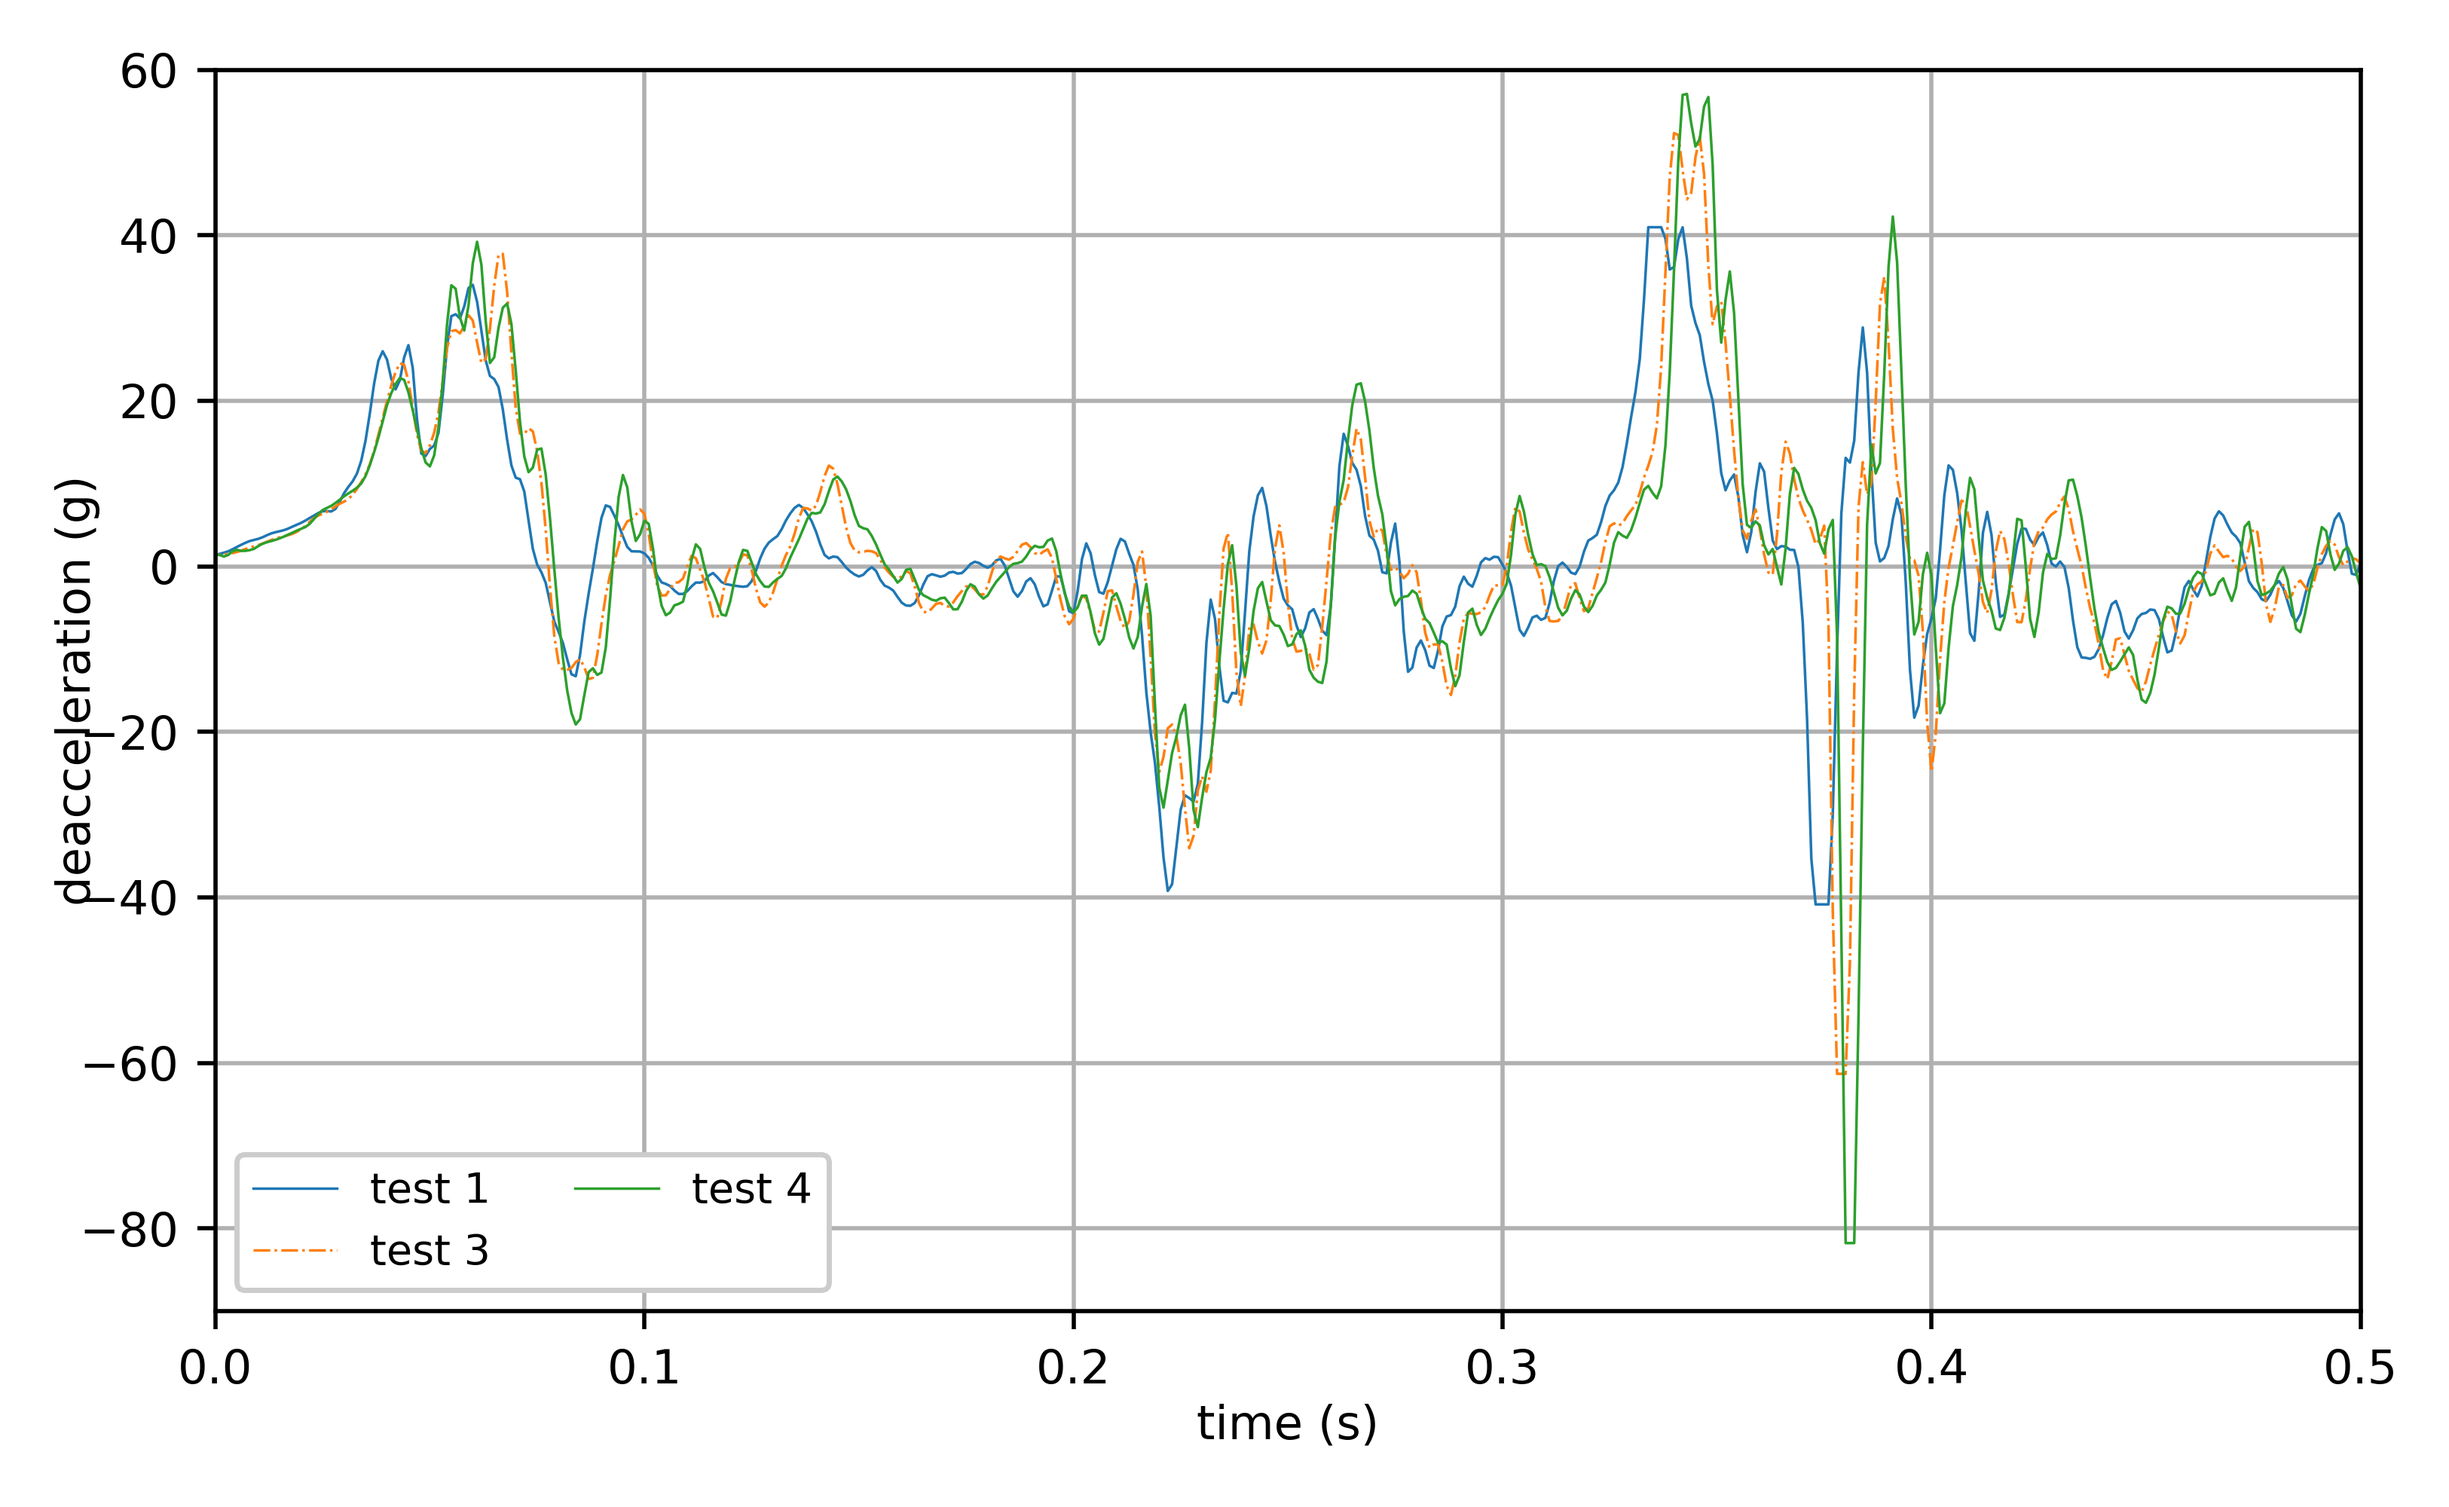
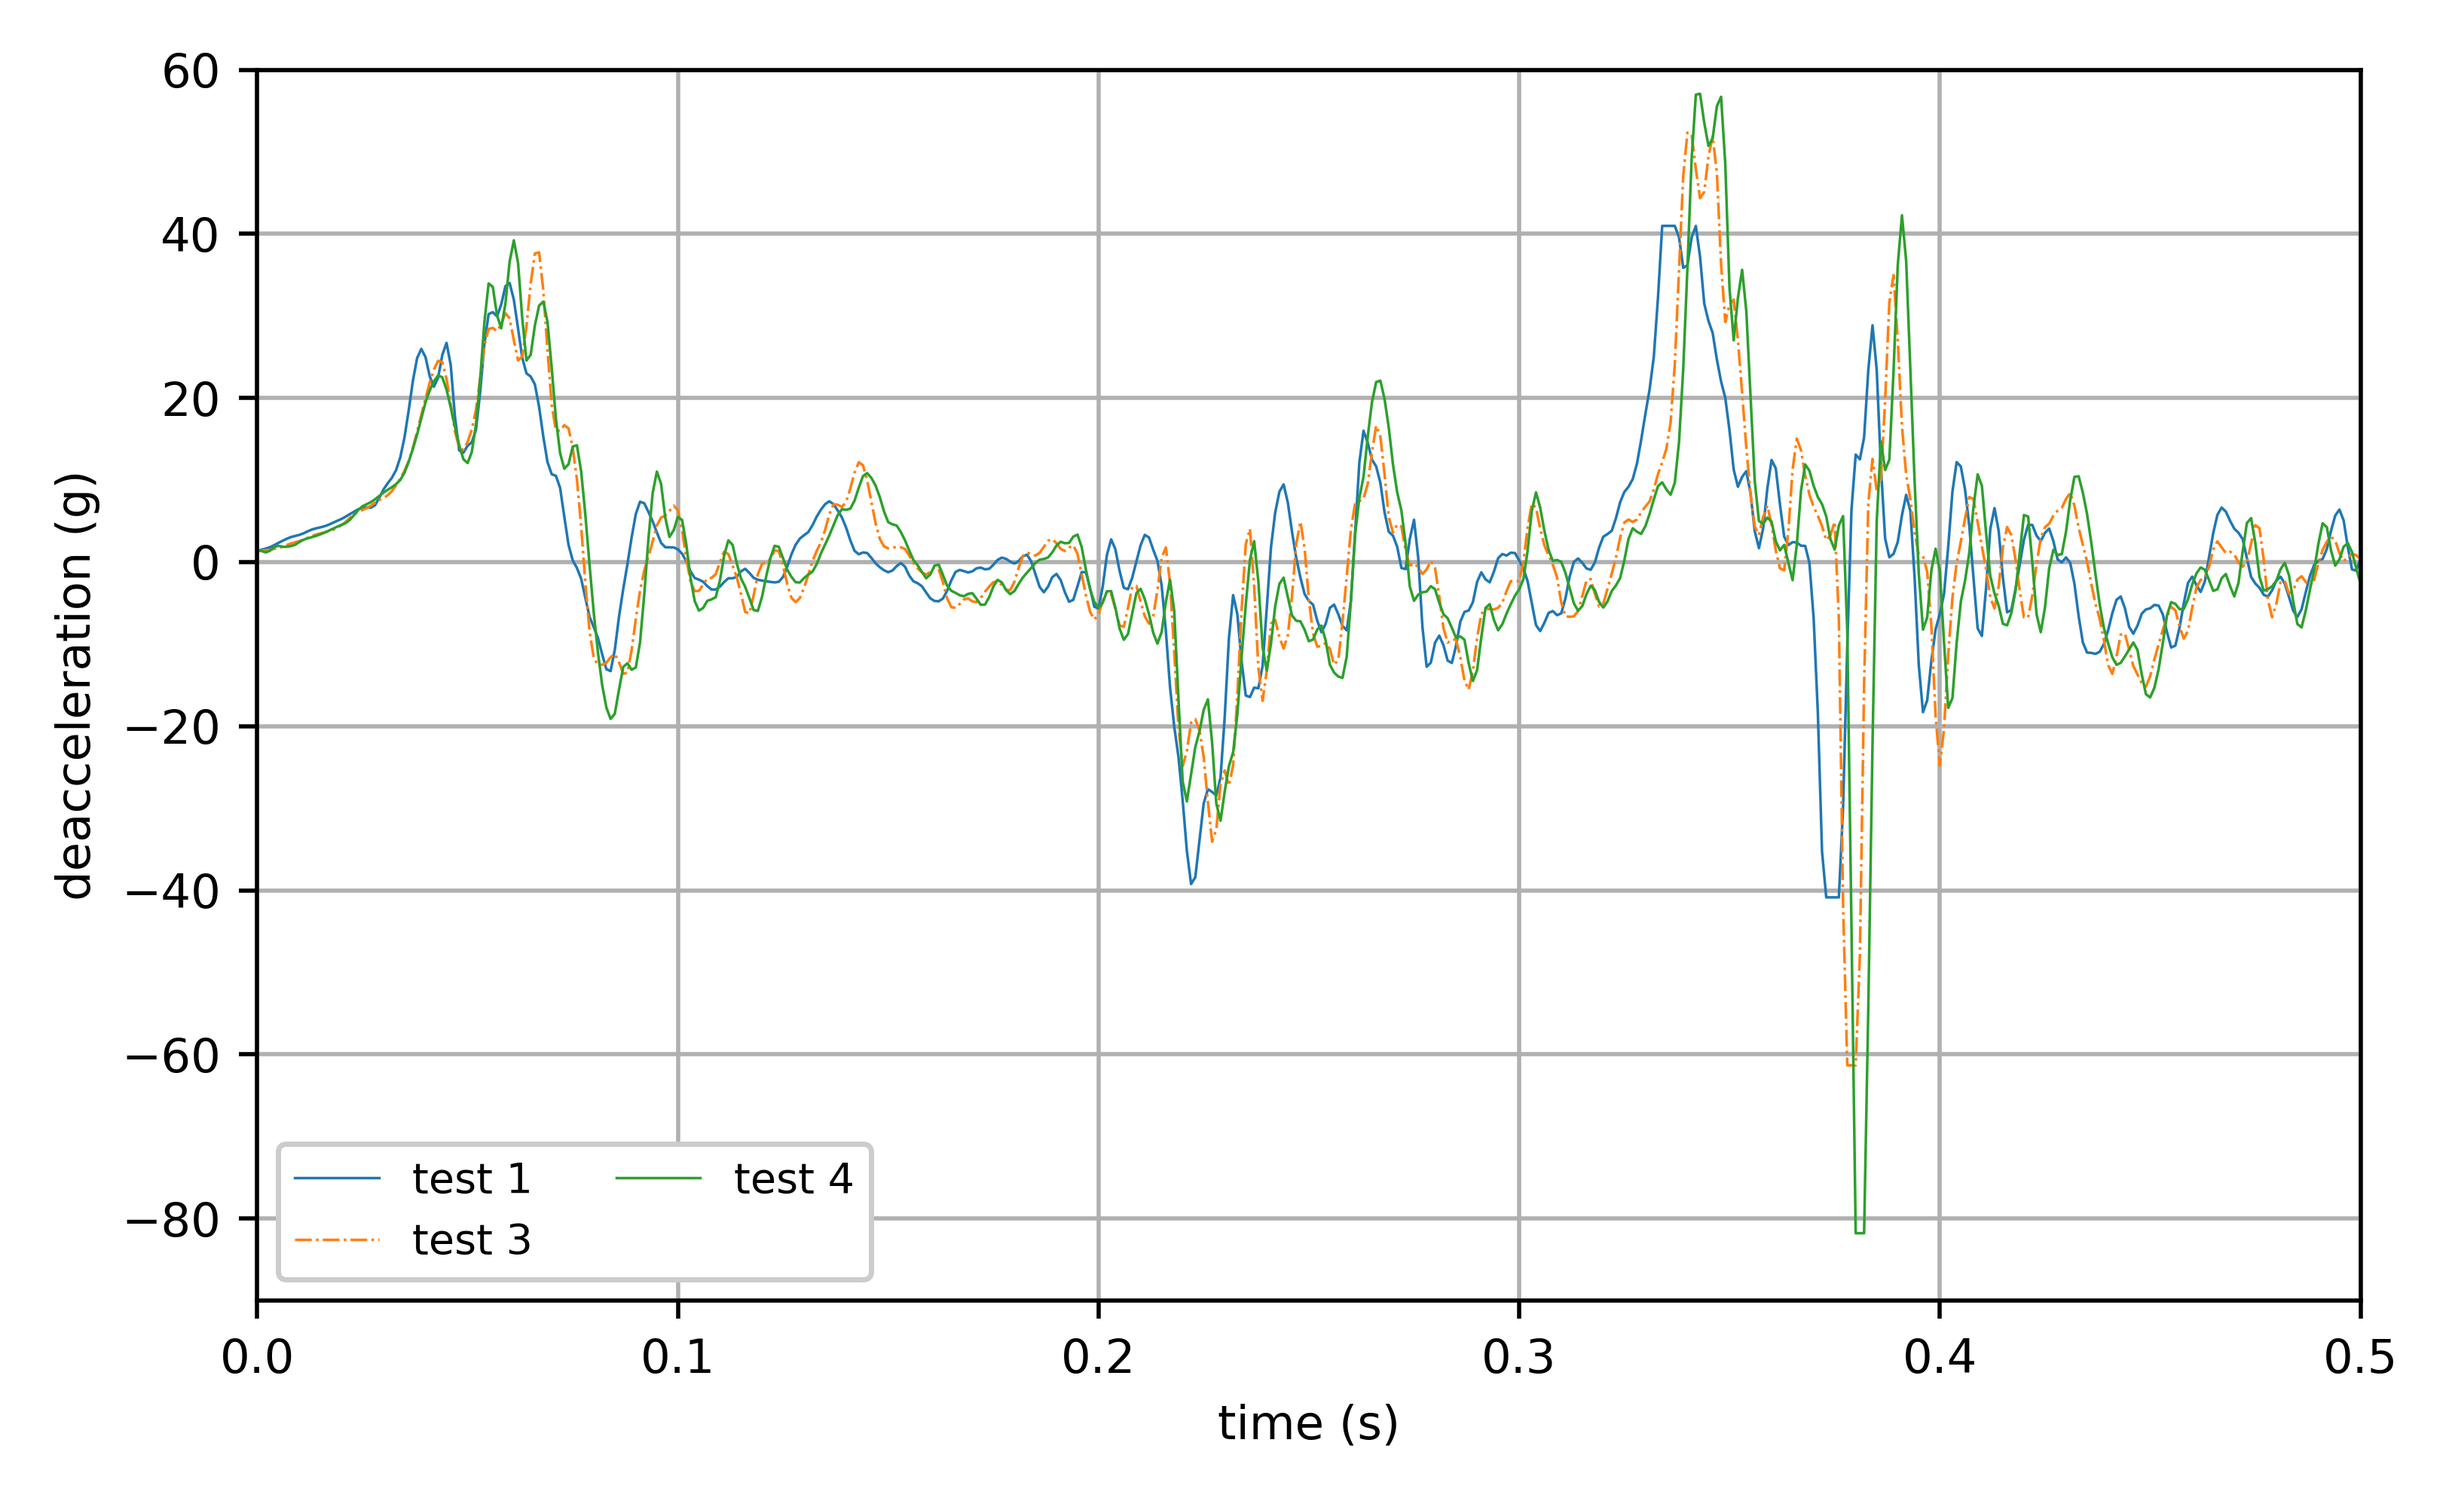
updates

diff --git a/images/process.py b/images/process.py
@@ -56,8 +56,8 @@ plt.plot(tt,dd_5,'-',label='test 4',lw='0.5')
 plt.xlim(0,0.5)
 plt.ylim(-90,60)
 plt.grid('on')
-plt.xlabel('time (s)',labelpad=2)
-plt.ylabel('deacceleration (g)',labelpad=-4)
+plt.xlabel('time (s)')
+plt.ylabel('deacceleration (g)')
 plt.legend(framealpha=1,fontsize=8,ncol=2,loc=3)
 plt.tight_layout()
 plt.savefig('candata.png',dpi=500)

diff --git a/README.md b/README.md
@@ -4,7 +4,7 @@ A data set focused on quad PCBs under shock
 
 ![plot](./images/candata.png)
 
-Figure 1: Experimental setup of a cantilever beam with key components and data acquisition setup.
+Figure 1: Deacceleration data for test 1, 3, and 5. 
 
 
 ![plot](./images/testbench_final.png)
